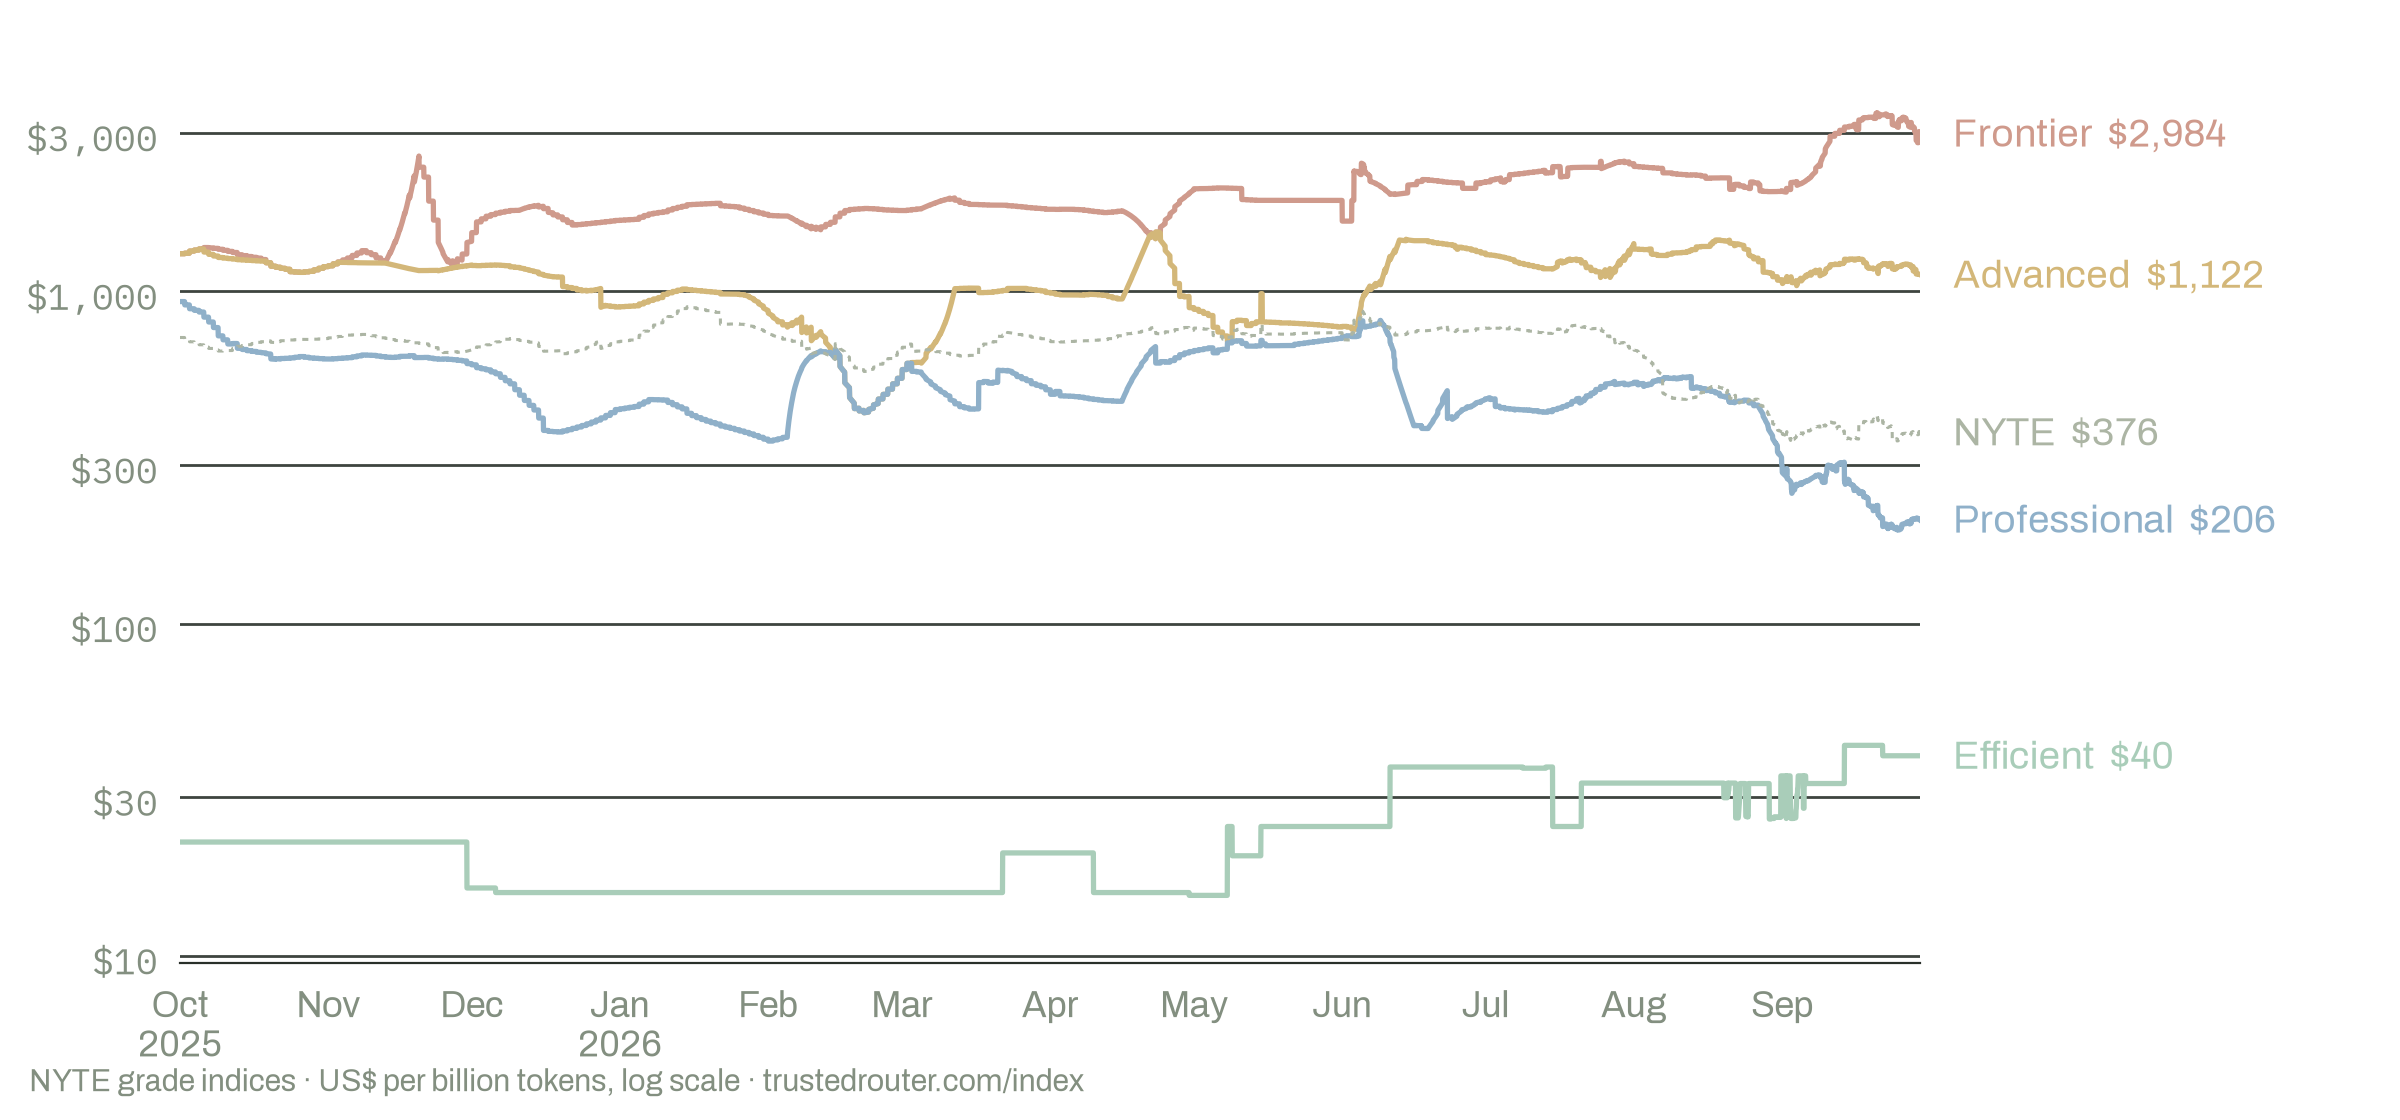
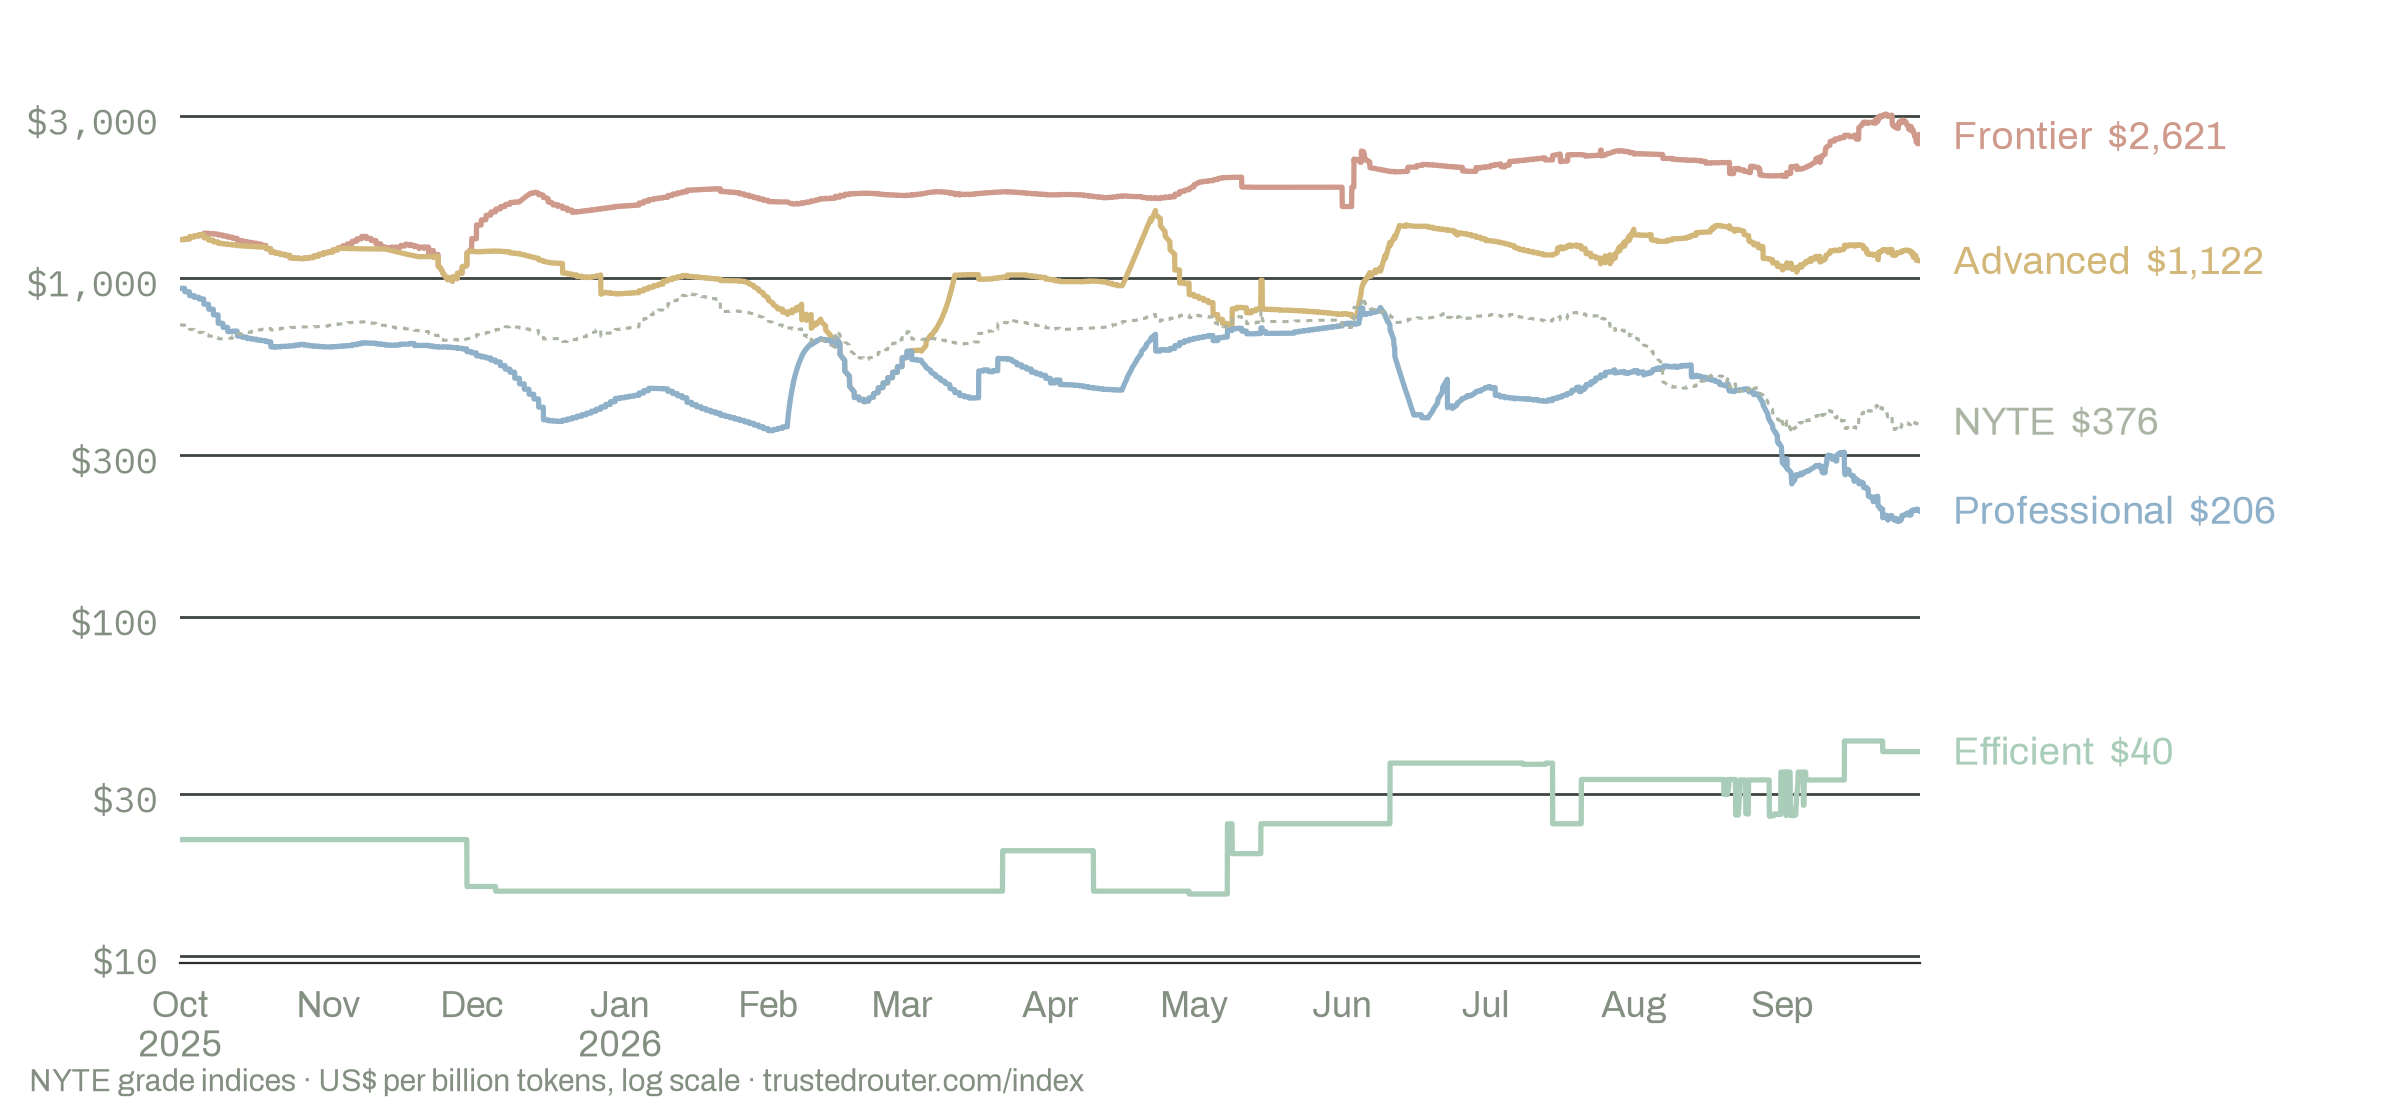
/index: Frontier grade with flagship handover
Regenerated by the nytokenexchange renderer after a methodology change to the Frontier
grade: a replaced flagship hands its weight over as its users move, which removes a
November 2025 spike. Frontier's quote moves from $2,984 to $2,621; the other quotes and
the NYTE chart are unchanged.

diff --git a/src/trusted_router/content/token_index.py b/src/trusted_router/content/token_index.py
@@ -14,8 +14,8 @@ QUOTES: dict[str, dict[str, object]] = {
     },
     "AAA": {
         "label": "AAA Frontier",
-        "value": 2984,
-        "change_7d": -12.0
+        "value": 2621,
+        "change_7d": -13.3
     },
     "A": {
         "label": "A Advanced",
@@ -82,7 +82,7 @@ GRADES: list[dict[str, object]] = [
 ]
 CHART_ALT: dict[str, str] = {
     "nyte": "Line chart of the NYTE Token Index in US dollars per billion tokens from October 2025 to September 2026, peaking near $899 in January and ending near $376.",
-    "grades": "Log-scale chart of the four NYTE grade indices in US dollars per billion tokens from October 2025 to September 2026, ending with Frontier near $2,984, Advanced near $1,122, Professional near $206, Efficient near $40."
+    "grades": "Log-scale chart of the four NYTE grade indices in US dollars per billion tokens from October 2025 to September 2026, ending with Frontier near $2,621, Advanced near $1,122, Professional near $206, Efficient near $40."
 }
 
 
